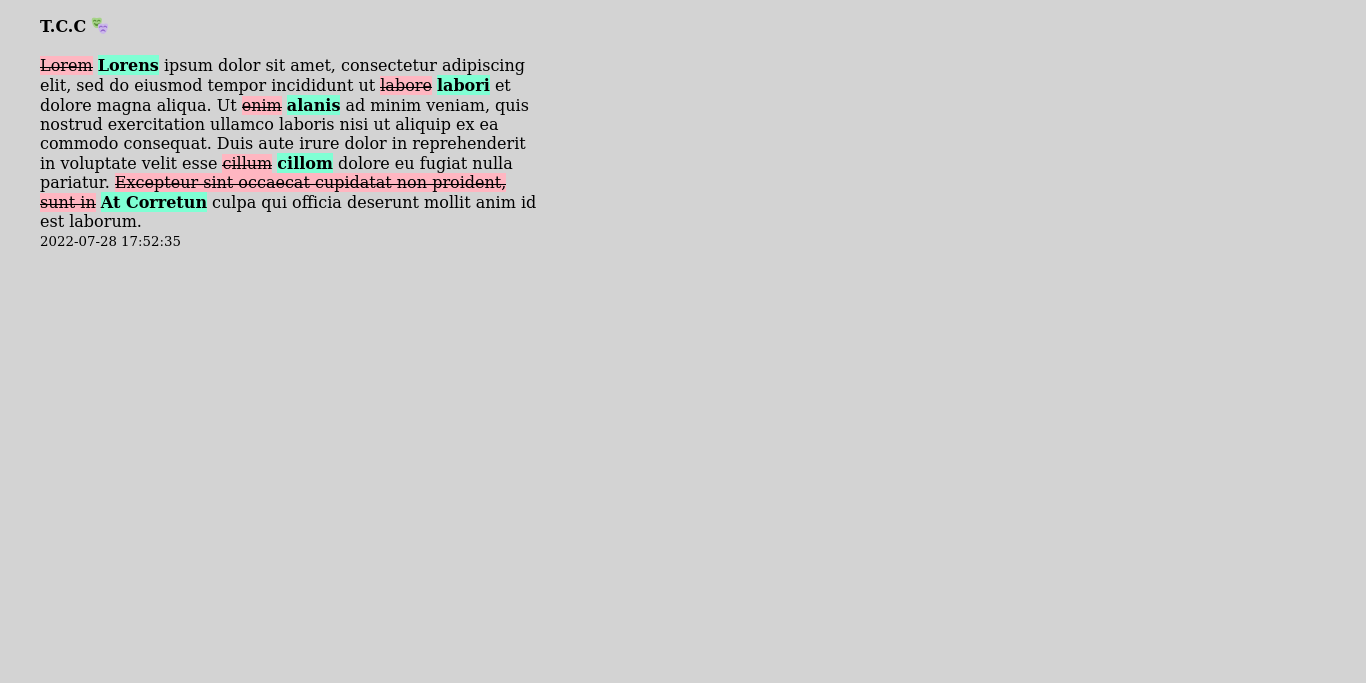
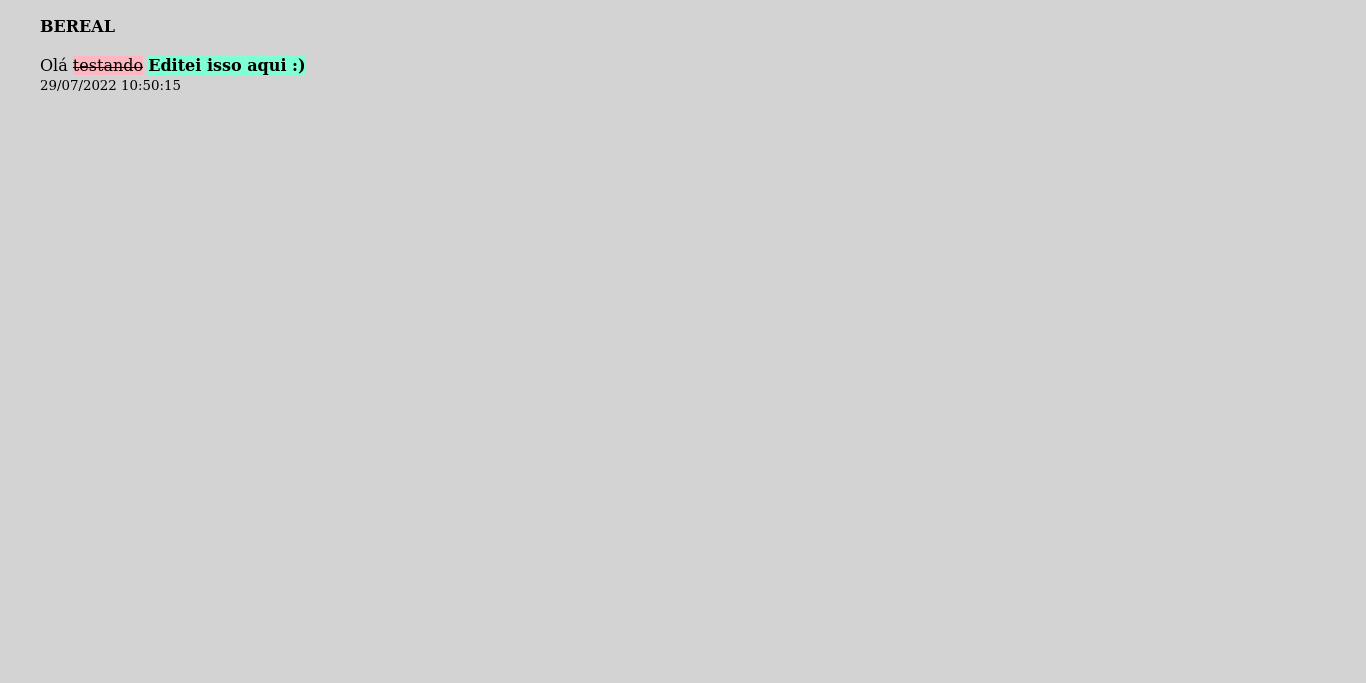
Fix emoji stuff

Changed region(s): [[0.0307, 0.0307, 0.3997, 0.369]]

diff --git a/html/tmp.html b/html/tmp.html
@@ -8,10 +8,10 @@
     </head>
     <body>
     <p>
-    <b> T.C.C 🎭 </b></br></br>
-    <del>Lorem</del> <ins>Lorens</ins> ipsum dolor sit amet, consectetur adipiscing elit, sed do eiusmod tempor incididunt ut <del>labore</del> <ins>labori</ins> et dolore magna aliqua. Ut <del>enim</del> <ins>alanis</ins> ad minim veniam, quis nostrud exercitation ullamco laboris nisi ut aliquip ex ea commodo consequat. Duis aute irure dolor in reprehenderit in voluptate velit esse <del>cillum</del> <ins>cillom</ins> dolore eu fugiat nulla pariatur. <del>Excepteur sint occaecat cupidatat non proident, sunt in</del> <ins>At Corretun</ins> culpa qui officia deserunt mollit anim id est laborum.
+    <b> BEREAL </b></br></br>
+    Olá <del>testando</del> <ins>Editei isso aqui :)</ins>
     </br>
-    <small> 2022-07-28 17:52:35 </small>
+    <small> 29/07/2022 10:50:15 </small>
     </p>
     </body>
     </html>

diff --git a/utils.py b/utils.py
@@ -130,8 +130,8 @@ def save_db_json_messages():
 
 async def text_to_image(mensagem):
 
-    old = mensagem.old_value if hasattr( mensagem, 'old_value') else ""
-    new = mensagem.new_value if hasattr( mensagem, 'new_value') else ""
+    old = emoji.emojize(mensagem.old_value) if hasattr( mensagem, 'old_value') else ""
+    new = emoji.emojize(mensagem.new_value) if hasattr( mensagem, 'new_value') else ""
     data = str(mensagem.date) if hasattr( mensagem, 'date') else ""
 
     if hasattr( mensagem, 'date'):
